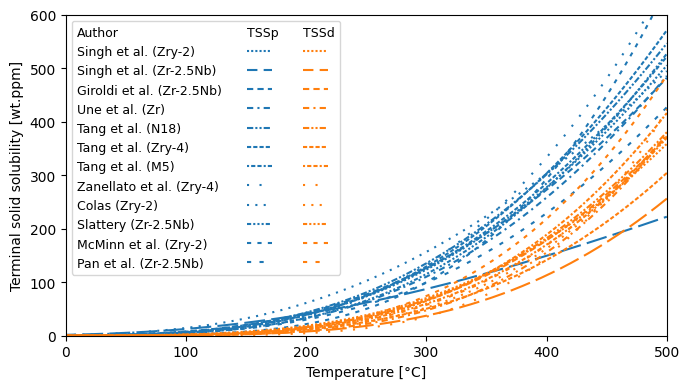
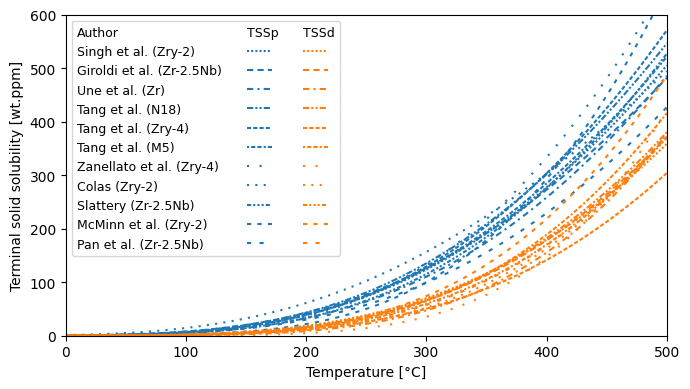
ignore Singh et al. Zr-2.5Nb experiments

diff --git a/examples/Others/TSSp and TSSd/terminal_solid_solubility.py b/examples/Others/TSSp and TSSd/terminal_solid_solubility.py
@@ -48,15 +48,17 @@ database = {'Singh et al. (Zry-2)': {'Reference': '[1]',
                                      'Q_TSSd': 30004,
                                      'Q_TSSp': 25930,
                                      'linestyle': (0, (1, 1))},
-            'Singh et al. (Zr-2.5Nb)': {'Reference': '[1]',
-                                        'Year': '2005',
-                                        'Material': 'Zr-2.5Nb',
-                                        'Note': 'Cold-worked pressure tube',
-                                        'TSSd0': 6.358e4,
-                                        'TSSp0': 3.235e3,
-                                        'Q_TSSd': 35440,
-                                        'Q_TSSp': 17210,
-                                        'linestyle': (5, (10, 3))},
+# =============================================================================
+#             'Singh et al. (Zr-2.5Nb)': {'Reference': '[1]',
+#                                         'Year': '2005',
+#                                         'Material': 'Zr-2.5Nb',
+#                                         'Note': 'Cold-worked pressure tube',
+#                                         'TSSd0': 6.358e4,
+#                                         'TSSp0': 3.235e3,
+#                                         'Q_TSSd': 35440,
+#                                         'Q_TSSp': 17210,
+#                                         'linestyle': (5, (10, 3))},
+# =============================================================================
             'Giroldi et al. (Zr-2.5Nb)': {'Reference': '[2]',
                                           'Year': '2009',
                                           'Material': 'Zr-2.5Nb',
@@ -160,19 +162,8 @@ database = {'Singh et al. (Zry-2)': {'Reference': '[1]',
 # =============================================================================
         }
 
-R = 8.31446261815324 # Gas constant [J mol-1 K-1]
-temperature = np.linspace(0, 500, 500) + 273 # Temperature [K]
-
-# TODO > chequear este valor de Singh, debe estar mal reportado en la Tabla 3.
-# Probar sacando los datos de las Fig. 6 y 7.
-
-plt.figure()
-asd = database['Singh et al. (Zr-2.5Nb)']
-TSSp = asd['TSSp0'] * np.exp(-asd['Q_TSSp']/(R*temperature))
-plt.plot(TSSp, temperature, linestyle=asd['linestyle'], color='#1f77b4', label='TSSp')
-TSSd = asd['TSSd0'] * np.exp(-asd['Q_TSSd']/(R*temperature))
-plt.plot(TSSd, temperature, linestyle=asd['linestyle'], color='#ff7f0e', label='TSSd')
-
+R = 8.31446261815324                            # Gas constant [J mol-1 K-1]
+temperature = np.linspace(0, 500, 500) + 273    # Temperature [K]
 
 fig, ax = plt.subplots(figsize=(7,4))
 

diff --git a/examples/Others/TSSp and TSSd/table_legend.py b/examples/Others/TSSp and TSSd/table_legend.py
@@ -43,9 +43,9 @@ def tablelegend(ax, col_labels=None, row_labels=None, title_label="", *args, **k
     
     """
     #################### same as `matplotlib.axes.Axes.legend` #####################
-    handles, labels, extra_args, kwargs = mlegend._parse_legend_args([ax], *args, **kwargs)
-    if len(extra_args):
-        raise TypeError('legend only accepts two non-keyword arguments')
+    handles, labels, kwargs = mlegend._parse_legend_args([ax], *args, **kwargs)
+    #if len(extra_args):
+    #    raise TypeError('legend only accepts two non-keyword arguments')
     
     if col_labels is None and row_labels is None:
         ax.legend_ = mlegend.Legend(ax, handles, labels, **kwargs)
